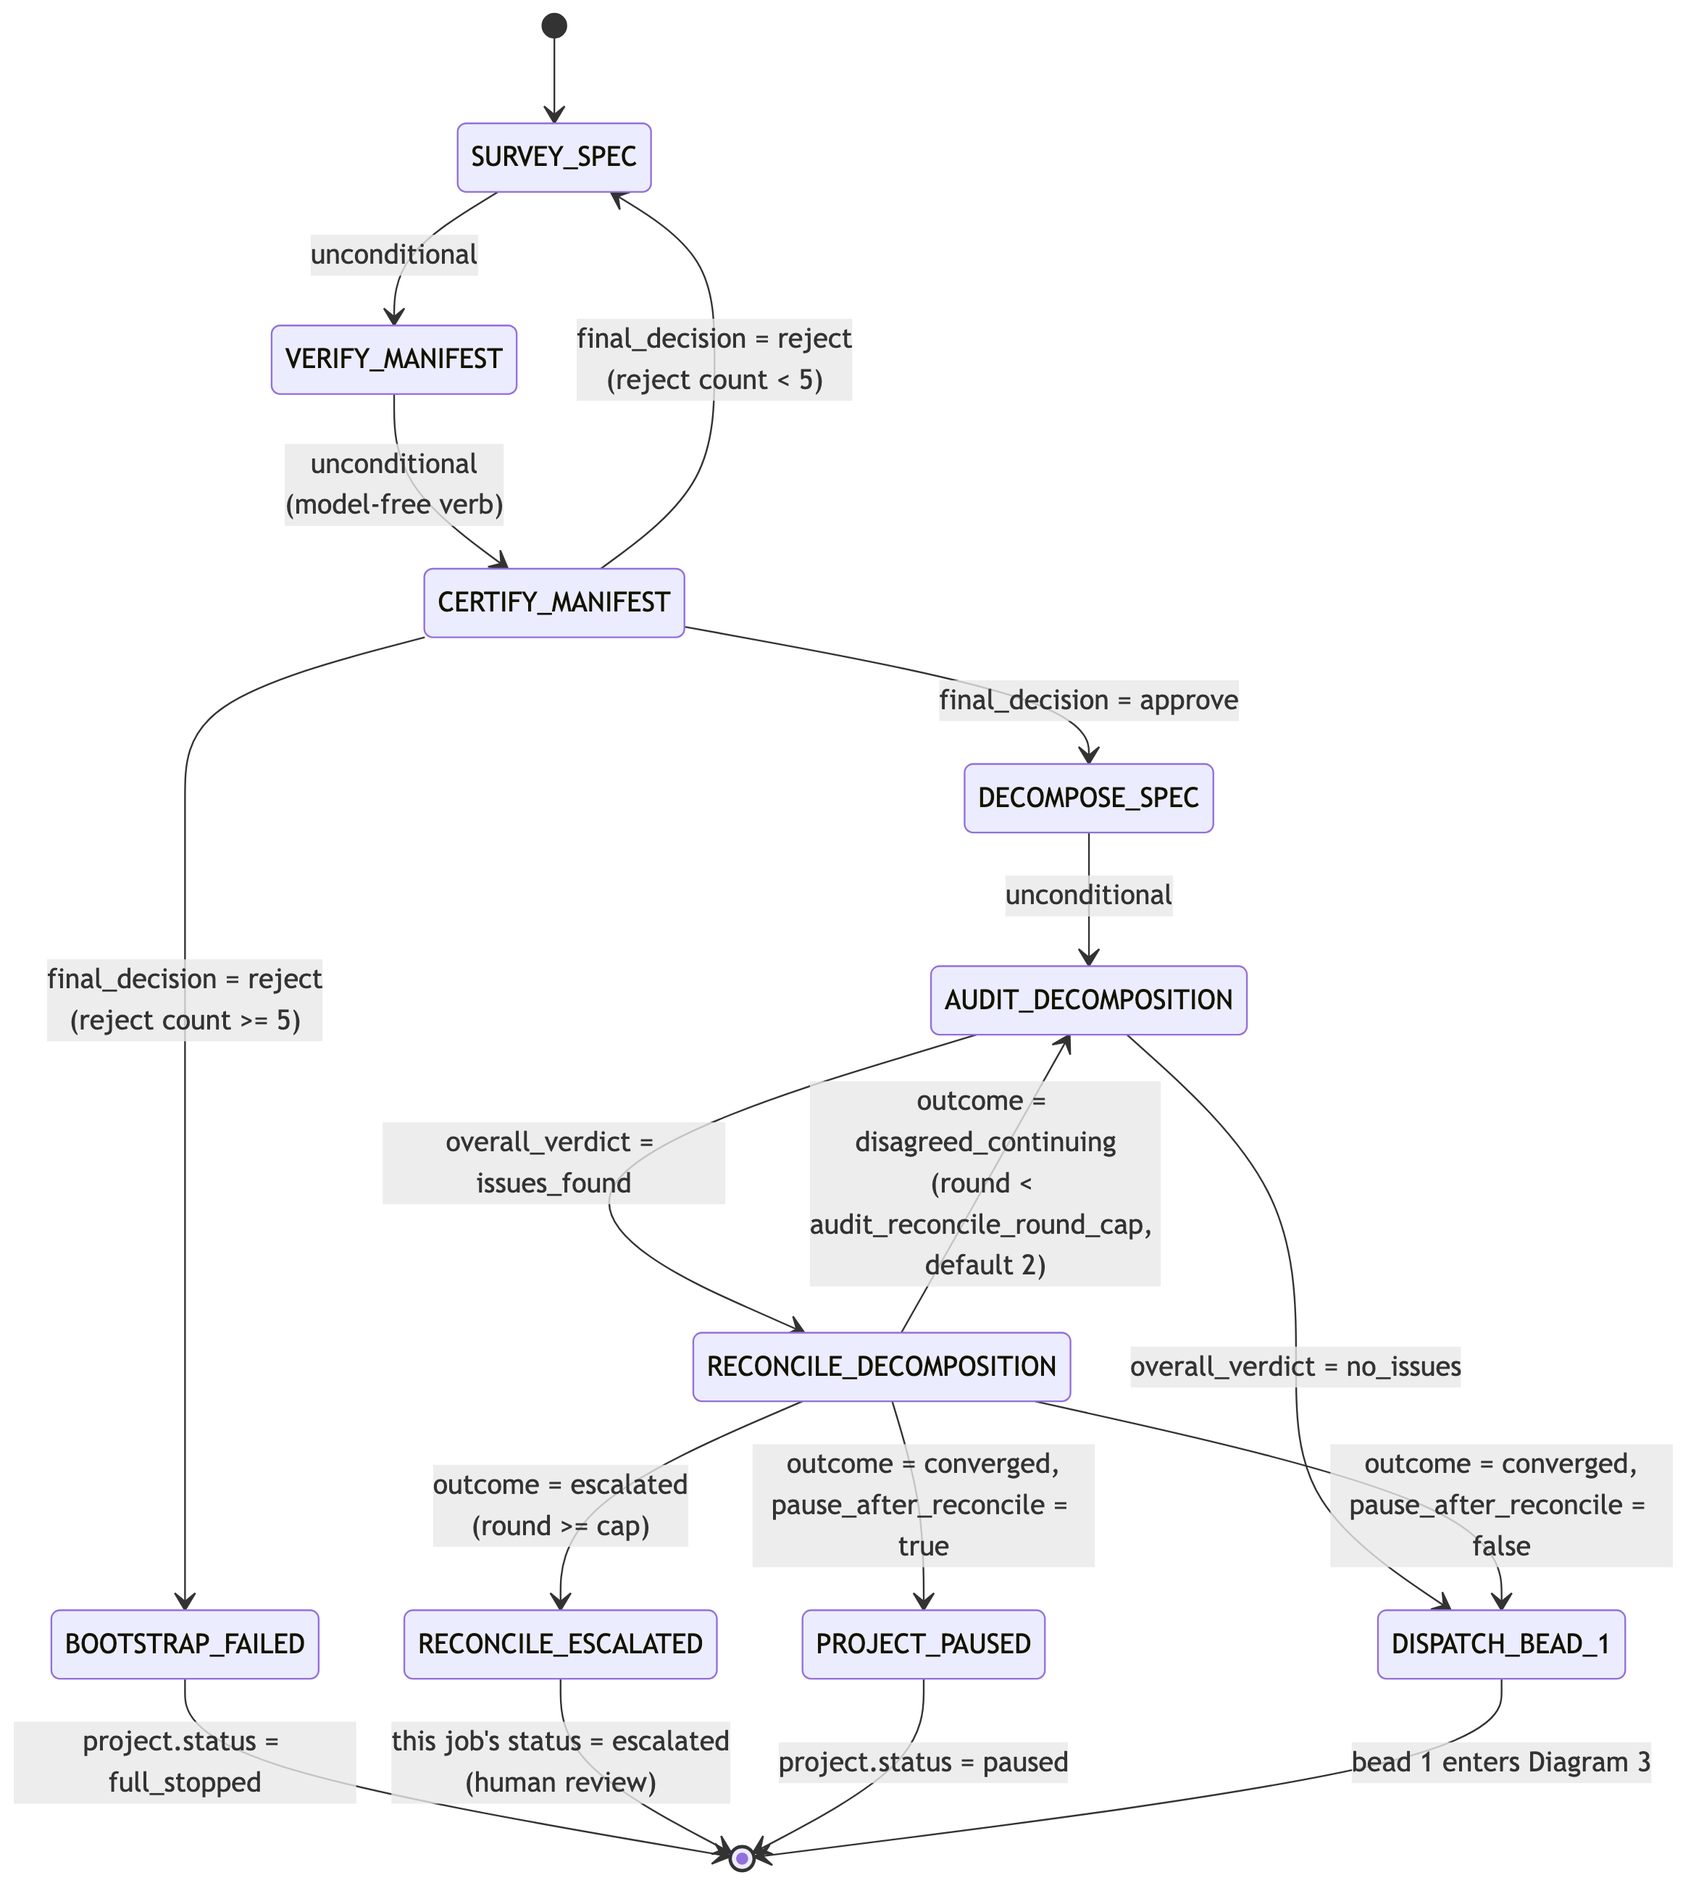
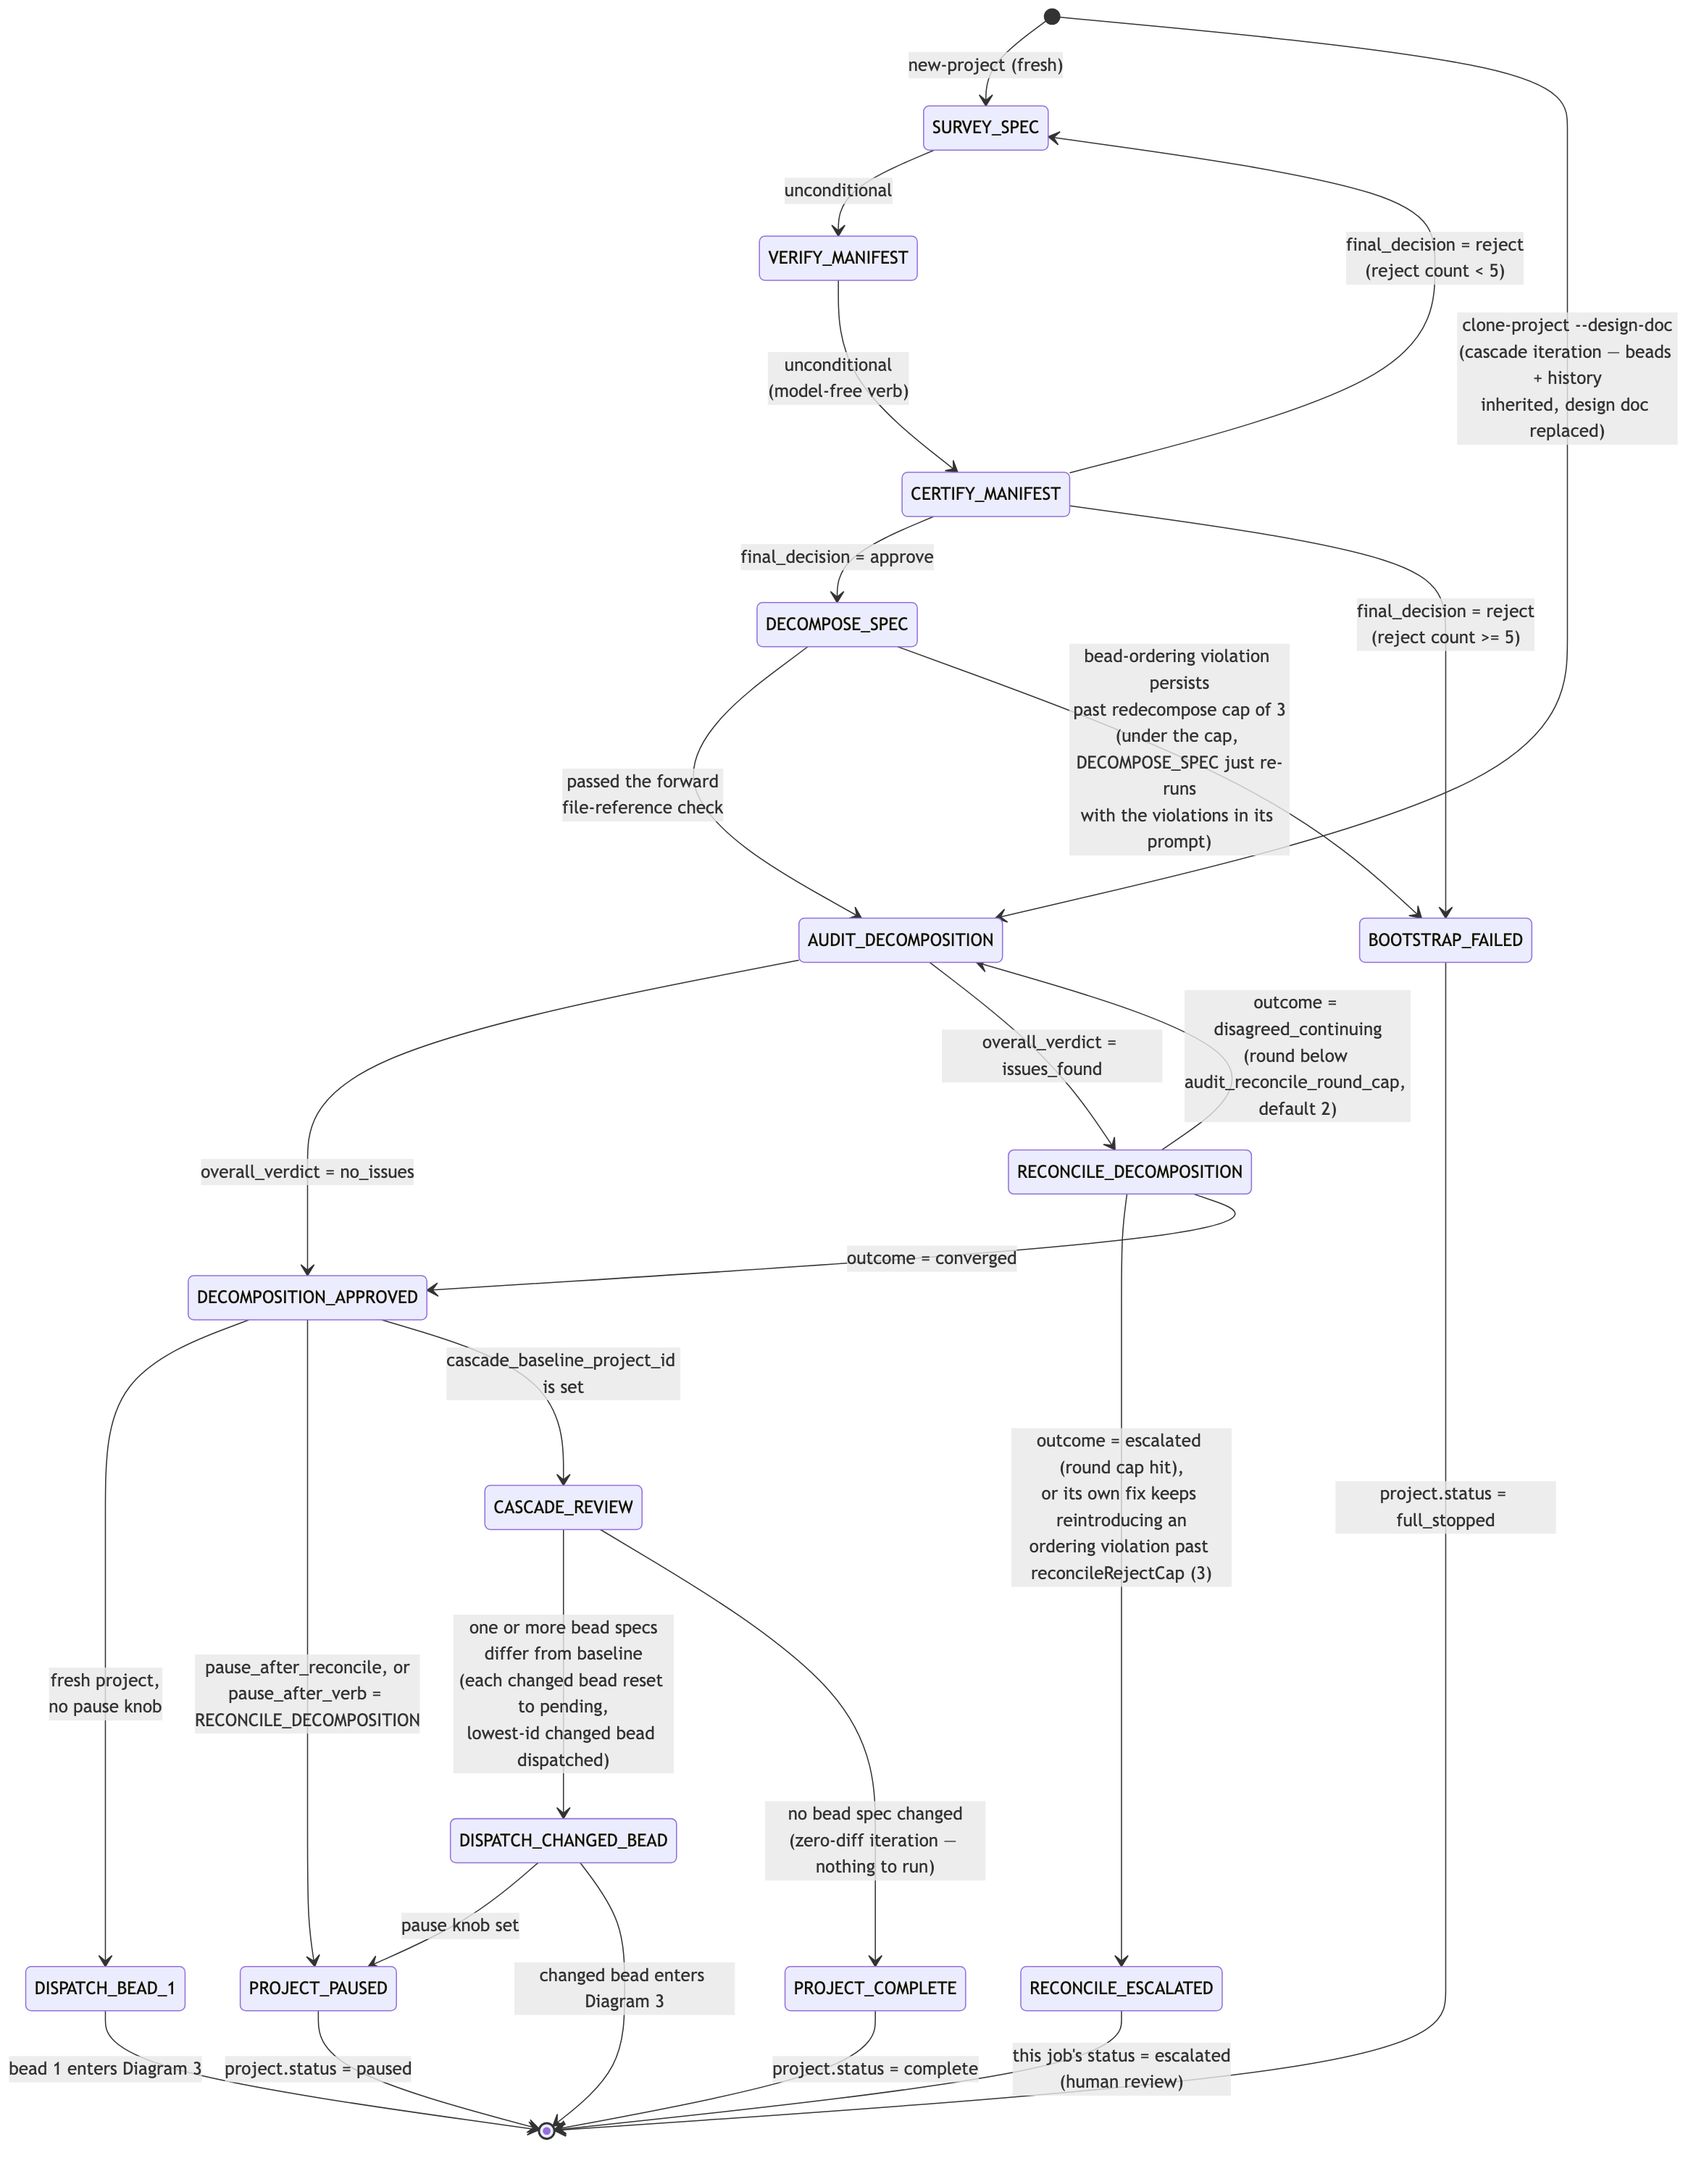
docs: regenerate FSM diagram PNGs from the updated Mermaid source
Diagrams 1-3 re-rendered (mermaid-cli 11.16.0, -b white -s 3) so the
images match the source: diagram 1 gains the zero-diff-cascade and
DECOMPOSE-ordering-cap edges, diagram 2 gains the whole cascade path
(DECOMPOSITION_APPROVED / CASCADE_REVIEW / DISPATCH_CHANGED_BEAD) plus
the AUDIT-vs-cascade entry fork, diagram 3 gains the succeeded->pending
cascade-reset edge and no_write. Diagram 4 unchanged (byte-identical).

Dropped the two redecompose/reconcile_rejected self-loop edges from the
diagram-2 Mermaid — self-loops with long labels wreck stateDiagram
layout; they're covered by an escalation-edge plus an expanded note.
Also removed ";" from three edge labels (mermaid 11.16.0 splits on it)
and the stale-PNG callout on diagram 1.

Claude-Session: https://claude.ai/code/session_01WAC9zZvXw1npQY4wugLDHU

diff --git a/docs/ratchet_state_machine.md b/docs/ratchet_state_machine.md
@@ -10,7 +10,11 @@ Four diagrams, from outermost to innermost:
 3. **Per-bead pipeline** — the loop every bead goes through; this is where most of the complexity lives.
 4. **Generic job status** — the low-level `handoff_jobs.status` FSM that every verb call goes through underneath diagrams 2 and 3.
 
-Render with a Mermaid-capable viewer (VS Code preview, GitHub, mermaid.live).
+Render with a Mermaid-capable viewer (VS Code preview, GitHub, mermaid.live). The
+`diagrams/*.png` images were last regenerated 2026-08-30 from the Mermaid source below
+via `npx @mermaid-js/mermaid-cli@11.16.0 -i X.mmd -o X.png -b white -s 3`. Keep edge
+labels free of `;` and free of `{ }` — mermaid 11.16.0 mis-parses both inside a
+stateDiagram label.
 
 See `docs/fixtures.md` for the `fixture` status, the three pause knobs, and the
 `save-fixture`/`clone-project` workflow. See the **Cascade iterations** section at the
@@ -31,10 +35,10 @@ run the cascade path).
 stateDiagram-v2
     [*] --> active : new-project, or<br/>clone-project (from any status)
     active --> paused : a pause knob matches<br/>(pause_after_reconcile,<br/>pause_after_verb, or<br/>pause_after_bead_id —<br/>see docs/fixtures.md)
-    paused --> active : resume-project CLI<br/>(pure status flip — the next job was<br/>already enqueued before pausing;<br/>resume.go:65)
+    paused --> active : resume-project CLI<br/>(pure status flip — the next job was<br/>already enqueued before pausing,<br/>resume.go:65)
     active --> full_stopped : full_stop decision on any bead (Diagram 3),<br/>or 5 consecutive CERTIFY_MANIFEST rejections,<br/>or DECOMPOSE_SPEC bead-ordering violations past cap,<br/>or full-stop-project CLI
     active --> complete : declare_success on the last<br/>remaining pending bead (Diagram 3),<br/>or a zero-diff cascade iteration<br/>(CASCADE_REVIEW finds nothing changed)
-    active --> fixture : save-fixture CLI<br/>(in-place renumber to a negative id;<br/>never dispatched again — fixture.go:80)
+    active --> fixture : save-fixture CLI<br/>(in-place renumber to a negative id,<br/>never dispatched again — fixture.go:80)
     paused --> fixture : save-fixture CLI<br/>(also allowed — the paused project's<br/>inert pending job moves with it)
     full_stopped --> [*]
     complete --> [*]
@@ -43,7 +47,7 @@ stateDiagram-v2
     note right of active
       Diagrams 2 and 3 both run
       while status = active.
-      Diagram 2 runs once, first;
+      Diagram 2 runs once, first.
       Diagram 3 repeats per bead.
     end note
 
@@ -56,7 +60,7 @@ stateDiagram-v2
     end note
 ```
 
-![Project status diagram](diagrams/1_project_status.png) — **stale**: predates the `fixture` status, the generalized pause knobs, and the cascade path. Regenerate from the Mermaid source above next time the PNGs are refreshed.
+![Project status diagram](diagrams/1_project_status.png)
 
 ## 2. Bootstrap (runs once, before bead 1)
 
@@ -80,23 +84,20 @@ stateDiagram-v2
     CERTIFY_MANIFEST --> BOOTSTRAP_FAILED : final_decision = reject<br/>(reject count >= 5)
 
     DECOMPOSE_SPEC --> AUDIT_DECOMPOSITION : passed the forward<br/>file-reference check
-    DECOMPOSE_SPEC --> DECOMPOSE_SPEC : bead-ordering violation<br/>(mechanical; redecompose round,<br/>attempt < decomposeRedecomposeCap = 3)
-    DECOMPOSE_SPEC --> BOOTSTRAP_FAILED : bead-ordering violation<br/>persists at redecompose cap
+    DECOMPOSE_SPEC --> BOOTSTRAP_FAILED : bead-ordering violation persists<br/>past redecompose cap of 3<br/>(under the cap, DECOMPOSE_SPEC just re-runs<br/>with the violations in its prompt)
 
     AUDIT_DECOMPOSITION --> DECOMPOSITION_APPROVED : overall_verdict = no_issues
     AUDIT_DECOMPOSITION --> RECONCILE_DECOMPOSITION : overall_verdict = issues_found
-    RECONCILE_DECOMPOSITION --> AUDIT_DECOMPOSITION : outcome = disagreed_continuing<br/>(round < audit_reconcile_round_cap, default 2)
-    RECONCILE_DECOMPOSITION --> RECONCILE_ESCALATED : outcome = escalated<br/>(round >= cap)
-    RECONCILE_DECOMPOSITION --> RECONCILE_DECOMPOSITION : its own fix reintroduces a<br/>bead-ordering violation<br/>(reconcile_rejected round,<br/>attempt < reconcileRejectCap = 3)
-    RECONCILE_DECOMPOSITION --> RECONCILE_ESCALATED : reconcile_rejected persists at cap
+    RECONCILE_DECOMPOSITION --> AUDIT_DECOMPOSITION : outcome = disagreed_continuing<br/>(round below audit_reconcile_round_cap, default 2)
+    RECONCILE_DECOMPOSITION --> RECONCILE_ESCALATED : outcome = escalated (round cap hit),<br/>or its own fix keeps reintroducing an<br/>ordering violation past reconcileRejectCap (3)
     RECONCILE_DECOMPOSITION --> DECOMPOSITION_APPROVED : outcome = converged
 
     DECOMPOSITION_APPROVED --> DISPATCH_BEAD_1 : fresh project,<br/>no pause knob
     DECOMPOSITION_APPROVED --> PROJECT_PAUSED : pause_after_reconcile, or<br/>pause_after_verb = RECONCILE_DECOMPOSITION
     DECOMPOSITION_APPROVED --> CASCADE_REVIEW : cascade_baseline_project_id is set
 
-    CASCADE_REVIEW --> DISPATCH_CHANGED_BEAD : >= 1 bead's spec differs from baseline<br/>(each changed bead reset to pending;<br/>lowest-id changed bead dispatched)
-    CASCADE_REVIEW --> PROJECT_COMPLETE : no bead's spec changed<br/>(zero-diff iteration — nothing to run)
+    CASCADE_REVIEW --> DISPATCH_CHANGED_BEAD : one or more bead specs<br/>differ from baseline<br/>(each changed bead reset to pending,<br/>lowest-id changed bead dispatched)
+    CASCADE_REVIEW --> PROJECT_COMPLETE : no bead spec changed<br/>(zero-diff iteration — nothing to run)
     DISPATCH_CHANGED_BEAD --> PROJECT_PAUSED : pause knob set
     DISPATCH_CHANGED_BEAD --> [*] : changed bead enters Diagram 3
 
@@ -107,14 +108,18 @@ stateDiagram-v2
     DISPATCH_BEAD_1 --> [*] : bead 1 enters Diagram 3
 ```
 
-![Bootstrap diagram](diagrams/2_bootstrap.png) — predates the cascade path and the two mechanical redecompose/reconcile-rejected self-loops.
+![Bootstrap diagram](diagrams/2_bootstrap.png)
 
 Notes:
 - `AUDIT_DECOMPOSITION` with `no_issues` skips `RECONCILE_DECOMPOSITION` — reconcile only runs when audit found something to fix.
-- The `redecompose` / `reconcile_rejected` self-loops are mechanical, not model
-  judgment: a forward file-reference / bead-ordering check runs on the proposed
-  decomposition, and a violation bounces the verb with the violations rendered into
-  its next prompt.
+- **`redecompose` / `reconcile_rejected` retry loops** (drawn only as their escalation
+  edges above, to keep the diagram readable): a mechanical forward-file-reference /
+  bead-ordering check runs on the proposed decomposition. `DECOMPOSE_SPEC` failing it
+  records a `redecompose` `audit_reconcile_rounds` row and re-enqueues `DECOMPOSE_SPEC`
+  with the violations in its next prompt; at `decomposeRedecomposeCap` (3) the project
+  is `full_stopped`. `RECONCILE_DECOMPOSITION` failing it on its *own* proposed fix
+  records a `reconcile_rejected` row and re-enqueues `RECONCILE_DECOMPOSITION`; at
+  `reconcileRejectCap` (3) the job is escalated. Neither is a model judgment call.
 
 ## 3. Per-bead pipeline
 
@@ -157,7 +162,7 @@ stateDiagram-v2
     executing --> succeeded : declare_success
     executing --> full_stopped : full_stop
     executing --> pending : rewind-bead CLI<br/>(spec reset to revision 1, test files<br/>deleted, impl files stubbed, fresh<br/>attempt budget, restarts at<br/>REFINE_TESTS_WRITE cycle 1)<br/>callable from ESCALATED too
-    succeeded --> pending : cascade reset (cascade_review.go)<br/>a design-doc-override clone's diff proved<br/>this bead's spec changed vs the baseline —<br/>like rewind but bypasses the "already<br/>succeeded" guard; snapshot under<br/>traces/bead-{id}-cascade-{n}/
+    succeeded --> pending : cascade reset (cascade_review.go) —<br/>a design-doc-override clone's diff proved<br/>this bead's spec changed vs the baseline,<br/>so it is reset like a rewind but without<br/>the already-succeeded guard (pre-reset<br/>files snapshotted first)
 
     succeeded --> [*] : REVISE_PENDING revises other pending<br/>specs, then dispatches the next pending<br/>bead into its own Diagram 3<br/>(or project.status = complete if none left,<br/>or project.status = paused if<br/>pause_after_bead_id matches this bead<br/>— see docs/fixtures.md)
     full_stopped --> [*] : cascades every later pending<br/>bead straight to full_stopped too
